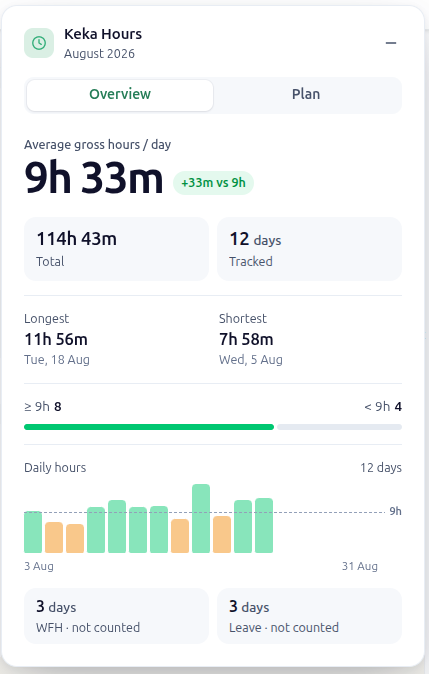
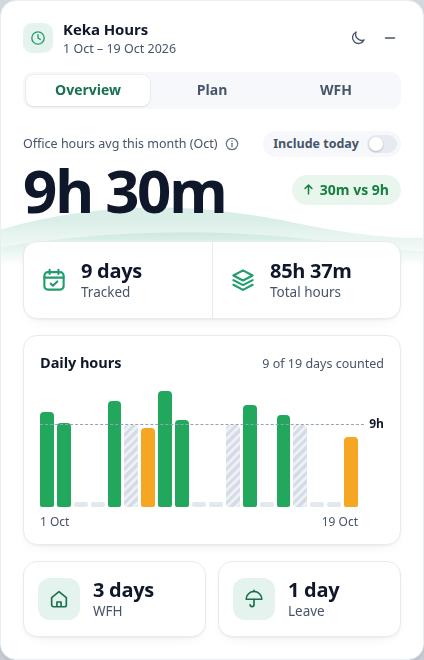
Overview redesign: bigger average, cards, brighter chart
- The average is 60px with the "vs 9h" badge on the right (up/down arrow),
  over a soft wave in Keka's theme colour.
- Tracked days and total hours share one card, with icons.
- Daily hours sits in its own card: taller, brighter bars (green >= 9h,
  amber < 9h), bold heading, "14 of 31 days counted".
- WFH and leave become cards with icon tiles.
- Longest / Shortest and the >= 9h / < 9h bar are gone (bar hover and the
  day list still show each day).
- Header, tabs, minimised pill, Plan and WFH tabs are unchanged; every
  Overview state stays within the Plan tab's height.
- README text and docs/overview.png updated.

diff --git a/src/content/ui.js b/src/content/ui.js
@@ -20,6 +20,15 @@
   const ICON_SUN = '<svg viewBox="0 0 24 24" aria-hidden="true"><circle cx="12" cy="12" r="4" fill="none" stroke="currentColor" stroke-width="1.8"/><path d="M12 3v2M12 19v2M3 12h2M19 12h2M5.6 5.6L7 7M17 17l1.4 1.4M5.6 18.4L7 17M17 7l1.4-1.4" fill="none" stroke="currentColor" stroke-width="1.8" stroke-linecap="round"/></svg>';
   const ICON_BELL = '<svg viewBox="0 0 24 24" aria-hidden="true"><path d="M6.5 16.5V11a5.5 5.5 0 0 1 11 0v5.5l1.5 1.5H5z" fill="none" stroke="currentColor" stroke-width="2" stroke-linejoin="round"/><path d="M10 20.5a2.2 2.2 0 0 0 4 0" fill="none" stroke="currentColor" stroke-width="2" stroke-linecap="round"/></svg>';
   const ICON_PLUS = '<svg viewBox="0 0 24 24" aria-hidden="true"><path d="M12 5v14M5 12h14" fill="none" stroke="currentColor" stroke-width="2.2" stroke-linecap="round"/></svg>';
+  // Overview: tracked days, total hours, WFH, leave, and the "vs 9h" arrows.
+  const ICON_CAL = '<svg viewBox="0 0 24 24" aria-hidden="true"><rect x="3.75" y="5.25" width="16.5" height="15" rx="3" fill="none" stroke="currentColor" stroke-width="1.8"/><path d="M3.75 10h16.5M8.25 3.25v3.5M15.75 3.25v3.5M9.2 15.1l1.9 1.8 3.7-3.7" fill="none" stroke="currentColor" stroke-width="1.8" stroke-linecap="round" stroke-linejoin="round"/></svg>';
+  const ICON_STACK = '<svg viewBox="0 0 24 24" aria-hidden="true"><path d="M12 3.75 3.75 8.1 12 12.45l8.25-4.35z" fill="none" stroke="currentColor" stroke-width="1.8" stroke-linejoin="round"/><path d="M3.75 12.1 12 16.45l8.25-4.35M3.75 16.1 12 20.45l8.25-4.35" fill="none" stroke="currentColor" stroke-width="1.8" stroke-linecap="round" stroke-linejoin="round"/></svg>';
+  const ICON_HOME = '<svg viewBox="0 0 24 24" aria-hidden="true"><path d="M4 10.4 12 4l8 6.4v8.1a2 2 0 0 1-2 2H6a2 2 0 0 1-2-2z" fill="none" stroke="currentColor" stroke-width="1.8" stroke-linejoin="round"/><path d="M9.75 20.5v-5.25h4.5v5.25" fill="none" stroke="currentColor" stroke-width="1.8" stroke-linejoin="round"/></svg>';
+  const ICON_UMBRELLA = '<svg viewBox="0 0 24 24" aria-hidden="true"><path d="M3.5 12.25a8.5 8.5 0 0 1 17 0z" fill="none" stroke="currentColor" stroke-width="1.8" stroke-linejoin="round"/><path d="M12 12.25v6a2.1 2.1 0 0 1-4.2 0M12 3.75v-1.2" fill="none" stroke="currentColor" stroke-width="1.8" stroke-linecap="round"/></svg>';
+  const ICON_UP = '<svg viewBox="0 0 24 24" aria-hidden="true"><path d="M12 19V5M6.5 10.5 12 5l5.5 5.5" fill="none" stroke="currentColor" stroke-width="2.4" stroke-linecap="round" stroke-linejoin="round"/></svg>';
+  const ICON_DOWN = '<svg viewBox="0 0 24 24" aria-hidden="true"><path d="M12 5v14M6.5 13.5 12 19l5.5-5.5" fill="none" stroke="currentColor" stroke-width="2.4" stroke-linecap="round" stroke-linejoin="round"/></svg>';
+  // Overview: the soft wave under the average (decoration only).
+  const WAVE = '<svg class="ov-wave" viewBox="0 0 400 70" preserveAspectRatio="none" aria-hidden="true"><path d="M0 42C70 22 132 24 200 38S330 56 400 14V70H0z"/><path d="M0 54C86 40 160 42 236 52S352 60 400 36V70H0z"/></svg>';
 
   const CSS = `
 :host { all: initial; }
@@ -49,10 +58,14 @@
   --line-hover: #dbe3ec;
   --dot-good: #22a05b;
   --dot-warn: #e08a1e;
-  --bar: #9fd9b9;
-  --bar-warn: #f3c48a;
-  --bar-hover: #34b46d;
-  --bar-warn-hover: #e08a1e;
+  --bar: #22a85c;
+  --bar-warn: #f5a623;
+  --bar-hover: #15803d;
+  --bar-warn-hover: #d97706;
+  --card: #fff;
+  --card-line: #e6ebf1;
+  --card-shadow: 0 1px 2px rgba(15, 23, 42, .04), 0 6px 16px -10px rgba(15, 23, 42, .14);
+  --wave: .17;
   --wfh-a: #d5dce5;
   --wfh-b: #edf1f5;
   --wfh-hover-a: #b9c3cf;
@@ -64,7 +77,6 @@
   --skel-b: #f7f9fb;
   --tab-ind: #fff;
   --tab-ind-shadow: 0 1px 2px rgba(15,23,42,.08), 0 0 0 1px rgba(15,23,42,.04);
-  --meter-on: #34b46d;
   --meter-off: #e6ebf1;
   --plan-bg: #fff;
   --away-a: #f4f6f9;
@@ -103,10 +115,14 @@
   --line-hover: #3a4552;
   --dot-good: #3fb97a;
   --dot-warn: #e6a23c;
-  --bar: #2f7a54;
-  --bar-warn: #9a6a2e;
+  --bar: #2e9e63;
+  --bar-warn: #d6922c;
   --bar-hover: #4ade80;
   --bar-warn-hover: #fbbf24;
+  --card: #1b2129;
+  --card-line: #2a323c;
+  --card-shadow: none;
+  --wave: .2;
   --wfh-a: #38424f;
   --wfh-b: #232a33;
   --wfh-hover-a: #4b5766;
@@ -118,7 +134,6 @@
   --skel-b: #2a323c;
   --tab-ind: #2e3743;
   --tab-ind-shadow: 0 1px 2px rgba(0,0,0,.4), 0 0 0 1px rgba(255,255,255,.04);
-  --meter-on: #3fb97a;
   --meter-off: #2f3944;
   --plan-bg: var(--bg);
   --away-a: #232a33;
@@ -199,11 +214,39 @@ svg { width: 100%; height: 100%; display: block; }
 .pane[data-pane="overview"] { display: flex; flex-direction: column; }
 .pane[data-pane="wfh"] { display: flex; flex-direction: column; }
 
-/* ---------- daily chart (fills the space left by the taller Plan tab) ---------- */
-.spark-section { flex: 1; display: flex; flex-direction: column; }
-.spark-head { display: flex; justify-content: space-between; font-size: 12.5px; color: var(--muted); }
-.spark { position: relative; flex: 1; min-height: 64px; max-height: 96px; margin-top: 8px; padding-right: 24px; display: flex; align-items: flex-end; gap: 3px; }
-.spark .bar { flex: 1 1 0; max-width: 18px; min-height: 3px; border-radius: 4px 4px 2px 2px; background: var(--bar); transition: background .14s ease; }
+/* ---------- Overview: the average, then cards ---------- */
+.ov-hero { position: relative; padding: 6px 0 20px; }
+.ov-top { position: relative; z-index: 2; } /* its tooltip opens over the number */
+.ov-row { position: relative; z-index: 1; display: flex; align-items: center; justify-content: space-between; gap: 12px; margin-top: 2px; }
+.ov-value { font-size: 60px; line-height: 1.04; font-weight: 700; letter-spacing: -.04em; white-space: nowrap; }
+.ov-chip { flex: none; display: inline-flex; align-items: center; gap: 4px; height: 30px; padding: 0 12px 0 9px; border-radius: 999px; font-size: 14px; font-weight: 650; white-space: nowrap; background: var(--surface); color: var(--muted); }
+.ov-chip.good { background: var(--good-soft); color: var(--good); }
+.ov-chip.warn { background: var(--warn-soft); color: var(--warn); }
+.ov-chip.flat { padding: 0 12px; }
+.ov-chip svg { width: 15px; height: 15px; flex: none; }
+/* Edge to edge, fading out behind the first card. */
+.ov-wave { position: absolute; left: -22px; right: -22px; bottom: -30px; width: auto; height: 104px; pointer-events: none; -webkit-mask-image: linear-gradient(#000 50%, transparent 94%); mask-image: linear-gradient(#000 50%, transparent 94%); }
+.ov-wave path { fill: var(--brand); opacity: var(--wave); }
+.ov-card { position: relative; border: 1px solid var(--card-line); border-radius: 14px; background: var(--card); box-shadow: var(--card-shadow); }
+.ov-stats { display: grid; grid-template-columns: 1fr 1fr; }
+.ov-stat { display: flex; align-items: center; gap: 13px; min-width: 0; padding: 16px; }
+.ov-stat + .ov-stat { border-left: 1px solid var(--card-line); }
+.ov-icon { flex: none; width: 28px; height: 28px; color: var(--brand); }
+.ov-stat > div, .ov-ex > div { min-width: 0; }
+.ov-v { font-size: 20px; font-weight: 700; letter-spacing: -.015em; line-height: 1.25; white-space: nowrap; }
+.ov-l { font-size: 13.5px; color: var(--muted); white-space: nowrap; overflow: hidden; text-overflow: ellipsis; }
+.ov-pair { display: grid; grid-template-columns: 1fr 1fr; gap: 12px; margin-top: 16px; }
+.ov-ex { display: flex; align-items: center; gap: 13px; min-width: 0; padding: 15px 14px; }
+.ov-tile { flex: none; width: 42px; height: 42px; padding: 10px; border-radius: 12px; background: var(--brand-soft); color: var(--brand-text); }
+.ov-today { margin-top: 14px; padding: 9px 12px; border-radius: 11px; background: var(--brand-soft); font-size: 13px; color: var(--brand-text); }
+.ov-today b { font-weight: 700; }
+
+/* Daily hours: fills the space left by the taller Plan tab. */
+.ov-chart { flex: 1; display: flex; flex-direction: column; margin-top: 16px; padding: 16px 16px 13px; }
+.spark-head { display: flex; align-items: baseline; justify-content: space-between; gap: 12px; font-size: 12.5px; color: var(--muted); }
+.spark-head b { font-size: 14.5px; font-weight: 650; letter-spacing: -.005em; color: var(--text); }
+.spark { position: relative; flex: 1; min-height: 68px; margin-top: 12px; padding-right: 26px; display: flex; align-items: flex-end; gap: 3px; }
+.spark .bar { flex: 1 1 0; max-width: 20px; min-height: 3px; border-radius: 4px 4px 2px 2px; background: var(--bar); transition: background .14s ease; }
 .spark .bar.warn { background: var(--bar-warn); }
 .spark .bar:hover { background: var(--bar-hover); }
 .spark .bar.warn:hover { background: var(--bar-warn-hover); }
@@ -215,8 +258,8 @@ svg { width: 100%; height: 100%; display: block; }
 .spark .bar.live { background: transparent; box-shadow: inset 0 0 0 1.5px var(--brand-line); }
 .spark .bar.live:hover { background: var(--brand-soft); }
 .spark .line { position: absolute; left: 0; right: 0; border-top: 1.5px dashed var(--guide); pointer-events: none; }
-.spark .line span { position: absolute; right: 0; top: -7px; line-height: 12px; font-size: 11px; font-weight: 600; color: var(--subtle); background: var(--bg); padding-left: 4px; }
-.spark-foot { display: flex; justify-content: space-between; margin-top: 5px; padding-right: 24px; font-size: 11.5px; color: var(--subtle); }
+.spark .line span { position: absolute; right: 0; top: -8px; line-height: 14px; font-size: 12px; font-weight: 700; color: var(--text); background: var(--card); padding-left: 5px; }
+.spark-foot { display: flex; justify-content: space-between; margin-top: 7px; padding-right: 26px; font-size: 12px; color: var(--muted); }
 .hero { padding: 6px 0 16px; }
 .hero-top { display: flex; align-items: center; justify-content: space-between; gap: 12px; }
 /* Plan is the tallest tab: its switch overlaps the hero's padding, so the card doesn't grow. */
@@ -281,32 +324,11 @@ svg { width: 100%; height: 100%; display: block; }
 .chip.good { background: var(--good-soft); color: var(--good); }
 .chip.warn { background: var(--warn-soft); color: var(--warn); }
 
-.tiles { display: grid; grid-template-columns: 1fr 1fr; gap: 8px; }
-.tile { background: var(--surface); border-radius: 12px; padding: 10px 12px; min-width: 0; }
-.tile-value { font-size: 18.5px; font-weight: 650; letter-spacing: -.015em; white-space: nowrap; }
-.tile-value small { font-size: 13.5px; font-weight: 500; color: var(--muted); letter-spacing: 0; }
-.tile-label { font-size: 12.5px; color: var(--muted); white-space: nowrap; overflow: hidden; text-overflow: ellipsis; }
-.tiles.excluded { margin-top: 14px; }
-.tiles.excluded .tile { padding: 8px 12px; }
-.tiles.excluded .tile-value { font-size: 16px; }
-
-.section { margin-top: 14px; padding-top: 14px; border-top: 1px solid var(--line); }
 .row { display: flex; align-items: center; justify-content: space-between; gap: 12px; min-height: 26px; }
 .row-label { color: var(--muted); }
 .row-value { font-weight: 600; }
 .row-value.good { color: var(--good); }
 .row-value.warn { color: var(--warn); }
-.pair { display: grid; grid-template-columns: 1fr 1fr; gap: 12px; }
-.mini-label { font-size: 12.5px; color: var(--muted); }
-.mini-value { font-size: 16.5px; font-weight: 650; letter-spacing: -.01em; margin-top: 1px; }
-.mini-sub { font-size: 12.5px; color: var(--subtle); }
-
-.meter-head { display: flex; justify-content: space-between; font-size: 13.5px; color: var(--muted); }
-.meter-head b { color: var(--text); font-weight: 650; margin-left: 4px; }
-.meter { display: flex; gap: 3px; height: 6px; margin-top: 7px; }
-.meter span { border-radius: 999px; min-width: 6px; }
-.meter .above { background: var(--meter-on); }
-.meter .below { background: var(--meter-off); }
 
 .tags { display: flex; gap: 6px; }
 .tag { display: inline-flex; align-items: center; gap: 5px; height: 24px; padding: 0 8px; border-radius: 999px; background: var(--surface); font-size: 12.5px; color: var(--muted); }
@@ -479,8 +501,9 @@ button.cal-cell:hover { transform: translateY(-1px); border-color: var(--brand);
 @keyframes kh-shimmer { to { background-position: -200% 0; } }
 @media (prefers-reduced-motion: reduce) { * { animation: none !important; transition: none !important; } }
 @media (max-width: 480px) {
-  .hero-value { font-size: 38px; } .cal-cell { height: 44px; }
-  .head { padding: 16px 14px 12px 16px; } .content { padding: 2px 16px 16px; } .tabs { margin: 0 16px 12px; }
+  .hero-value { font-size: 38px; } .ov-value { font-size: 48px; } .cal-cell { height: 44px; }
+  .head { padding: 16px 14px 12px 16px; } .content { padding: 2px 16px 16px; } .ov-wave { left: -16px; right: -16px; }
+  .ov-stat { gap: 10px; padding: 14px 12px; } .ov-v { font-size: 18.5px; } .tabs { margin: 0 16px 12px; }
 }
 `;
 
@@ -565,52 +588,45 @@ button.cal-cell:hover { transform: translateY(-1px); border-color: var(--brand);
     if (s.workedWeeklyOffs) worked.push(`${s.workedWeeklyOffs} week-off${s.workedWeeklyOffs > 1 ? 's' : ''}`);
     if (s.halfLeaveDays) worked.push(`${s.halfLeaveDays} half-day${s.halfLeaveDays > 1 ? 's' : ''}`);
     const trackedLabel = worked.length ? `Tracked · incl. ${worked.join(', ')}` : 'Tracked';
-    const total = s.daysAtOrAboveTarget + s.daysBelowTarget;
-    const pct = total ? (s.daysAtOrAboveTarget / total) * 100 : 0;
     const target = fmt.duration(s.targetMinutes).replace(' 00m', '');
     const d = s.deltaMinutesPerDay;
+    const chip = d == null ? ''
+      : d === 0 ? `<span class="ov-chip good flat">On ${target}</span>`
+      : `<span class="ov-chip ${t}" role="img" aria-label="${esc(`${fmt.delta(Math.abs(d)).slice(1)} ${d > 0 ? 'above' : 'below'} ${target}`)}">${d > 0 ? ICON_UP : ICON_DOWN}${fmt.delta(Math.abs(d)).slice(1)} vs ${target}</span>`;
+    const stat = (icon, value, label, tile, tip = label) => `
+      <div class="${tile ? 'ov-card ov-ex' : 'ov-stat'}" title="${esc(tip)}">
+        <span class="${tile ? 'ov-tile' : 'ov-icon'}">${icon}</span>
+        <div><div class="ov-v">${value}</div><div class="ov-l">${esc(label)}</div></div>
+      </div>`;
 
     return `
-      <div class="hero">
-        <div class="hero-top">
+      <div class="ov-hero">
+        ${WAVE}
+        <div class="hero-top ov-top">
           <div class="eyebrow-wrap">
             <div class="eyebrow">${esc(avgLabel(m))}</div>
             ${s.trackedDays ? `<button class="info-btn" type="button" data-act="avg-info" aria-haspopup="dialog" aria-label="See the days behind this average" title="See the days behind this average">${ICON_INFO}</button>` : ''}
           </div>
           ${m.todayInView ? includeSwitchHtml(!!m.includeToday) : ''}
         </div>
-        <div class="hero-row">
-          <span class="hero-value">${fmt.duration(s.averageMinutes)}</span>
-          ${d == null ? '' : `<span class="chip ${t}">${d === 0 ? `On ${target}` : `${fmt.delta(d)} vs ${target}`}</span>`}
+        <div class="ov-row">
+          <span class="ov-value">${fmt.duration(s.averageMinutes)}</span>
+          ${chip}
         </div>
       </div>
 
-      <div class="tiles">
-        <div class="tile"><div class="tile-value">${fmt.duration(s.totalMinutes)}</div><div class="tile-label">Total</div></div>
-        <div class="tile"><div class="tile-value">${s.trackedDays} <small>${s.trackedDays === 1 ? 'day' : 'days'}</small></div><div class="tile-label" title="${esc(trackedLabel)}">${esc(trackedLabel)}</div></div>
+      <div class="ov-card ov-stats">
+        ${stat(ICON_CAL, dayCount(s.trackedDays), 'Tracked', false, trackedLabel)}
+        ${stat(ICON_STACK, fmt.duration(s.totalMinutes), 'Total hours')}
       </div>
-
-      ${s.trackedDays ? `
-      <div class="section pair">
-        <div><div class="mini-label">Longest</div><div class="mini-value">${fmt.duration(s.longestDay.grossMinutes)}</div><div class="mini-sub">${fmt.dayDate(s.longestDay.date)}</div></div>
-        <div><div class="mini-label">Shortest</div><div class="mini-value">${fmt.duration(s.shortestDay.grossMinutes)}</div><div class="mini-sub">${fmt.dayDate(s.shortestDay.date)}</div></div>
-      </div>
-
-      <div class="section">
-        <div class="meter-head"><span>≥ ${target}<b>${dayCount(s.daysAtOrAboveTarget)}</b></span><span>&lt; ${target}<b>${dayCount(s.daysBelowTarget)}</b></span></div>
-        <div class="meter" role="img" aria-label="${s.daysAtOrAboveTarget} of ${total} days at or above ${target}">
-          ${s.daysAtOrAboveTarget ? `<span class="above" style="flex:${pct}"></span>` : ''}
-          ${s.daysBelowTarget ? `<span class="below" style="flex:${100 - pct}"></span>` : ''}
-        </div>
-      </div>` : ''}
 
       ${sparkHtml(s)}
 
-      <div class="tiles excluded">
-        <div class="tile"><div class="tile-value">${s.wfhDays} <small>${s.wfhDays === 1 ? 'day' : 'days'}</small></div><div class="tile-label">WFH · not counted</div></div>
-        <div class="tile"><div class="tile-value">${s.leaveDays} <small>${s.leaveDays === 1 ? 'day' : 'days'}</small></div><div class="tile-label">Leave · not counted</div></div>
+      <div class="ov-pair">
+        ${stat(ICON_HOME, dayCount(s.wfhDays), 'WFH', true, 'WFH days aren’t counted in the average')}
+        ${stat(ICON_UMBRELLA, dayCount(s.leaveDays), 'Leave', true, 'Leave days aren’t counted in the average')}
       </div>
-      ${s.pendingToday ? `<div class="note">Today <b>${fmt.duration(s.pendingToday.grossMinutes)}</b> so far — counted once you clock out.</div>` : ''}`;
+      ${s.pendingToday ? `<div class="ov-today">Today <b>${fmt.duration(s.pendingToday.grossMinutes)}</b> so far — counted once you clock out.</div>` : ''}`;
   }
 
   /**
@@ -651,8 +667,8 @@ button.cal-cell:hover { transform: translateY(-1px); border-color: var(--brand);
     const last = fmt.dayDate(days[days.length - 1].date).split(', ')[1];
     const counted = s.trackedDays;
     return `
-      <div class="section spark-section">
-        <div class="spark-head"><span>Daily hours</span><span>${counted} counted · ${days.length} day${days.length === 1 ? '' : 's'}</span></div>
+      <div class="ov-card ov-chart">
+        <div class="spark-head"><b>Daily hours</b><span>${counted} of ${dayCount(days.length)} counted</span></div>
         <div class="spark${days.length > 20 ? ' dense' : ''}" role="img" aria-label="Daily hours: ${s.daysAtOrAboveTarget} counted days at or above ${target}, ${s.daysBelowTarget} below, ${days.length - counted} not counted">
           ${bars}
           <div class="line" style="bottom:${y(s.targetMinutes).toFixed(1)}%"><span>${target}</span></div>

diff --git a/README.md b/README.md
@@ -16,7 +16,7 @@ Everything runs locally in your browser. Nothing is sent anywhere.
     <th>WFH</th>
   </tr>
   <tr>
-    <td><img src="docs/overview.png" alt="Overview tab: average office hours per day, totals, longest/shortest day and daily-hours chart" width="280"></td>
+    <td><img src="docs/overview.png" alt="Overview tab: average office hours per day (9h 28m, up 28m vs 9h), tracked days and total hours, daily-hours chart, WFH and leave days" width="280"></td>
     <td><img src="docs/plan.png" alt="Plan tab: month calendar with hours worked per day" width="280"></td>
     <td><img src="docs/wfh.png" alt="WFH tab: Today (clocked in, reminder in 1h 13m, auto clock-out in 1h 43m) and Every WFH day (reminder on at 6:30 PM, auto clock-out on at 7:00 PM)" width="280"></td>
   </tr>
@@ -44,7 +44,8 @@ Keka. The moon/sun button in the card's header overrides it. The override is rem
 between Keka tabs) until you pick Keka's mode again or change Keka's display mode. If Keka's mode
 can't be read, the card follows your OS setting.
 
-- **Overview**: average, total, tracked days, longest/shortest, days ≥ / < 9h, WFH / leave.
+- **Overview**: the average with how far it is above or below 9h, tracked days and total hours, a
+  daily-hours chart (green ≥ 9h, amber < 9h, striped WFH; hover a bar for its hours), and WFH / leave days.
   Click the ⓘ next to "Office hours avg this month" to see every day behind it in a pop-up: date,
   type (office / WFH / leave / week-off…) and hours, with counted days highlighted, and
   total ÷ counted days. The list scrolls for long months.
